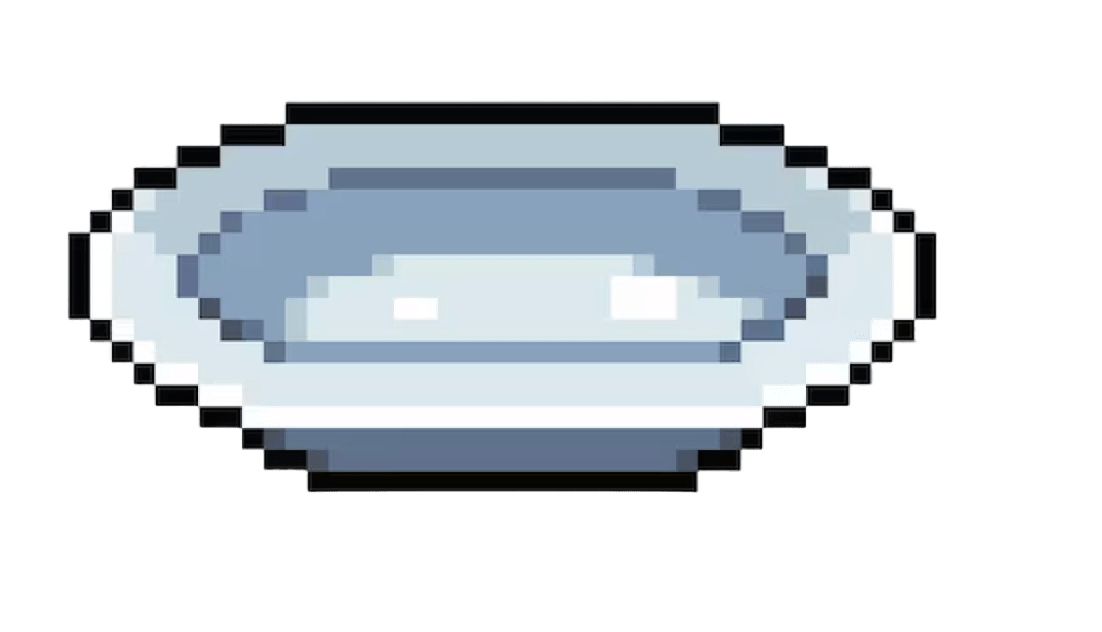
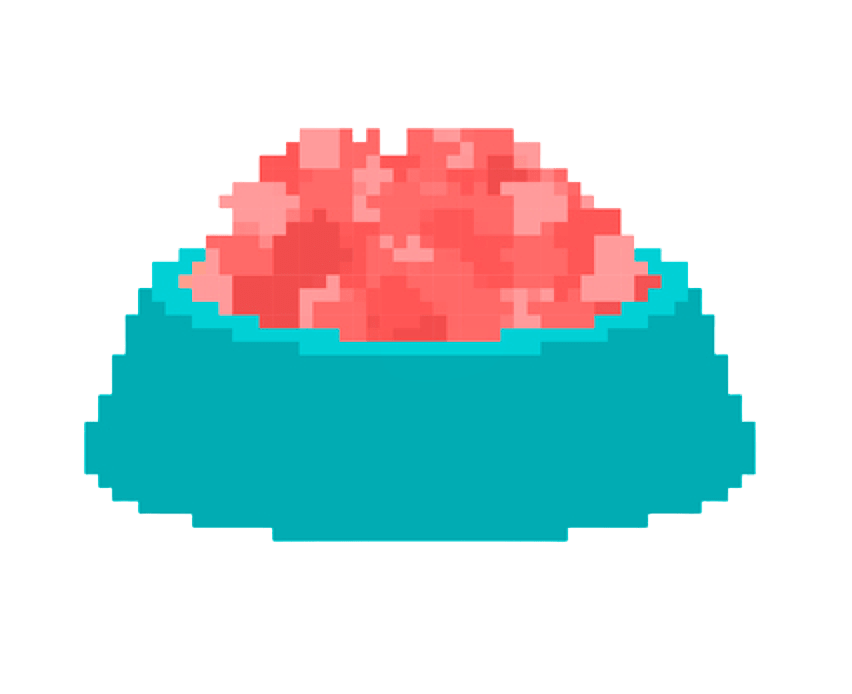
Efectos bola de estambre y plato

diff --git a/mapa.py b/mapa.py
@@ -1,5 +1,5 @@
 import random
-from config import FILAS, COLS, CELDA_MURO, CELDA_VACIA, CELDA_RATON, BASE, DEPOSITO, CELDA_CHARCO, CELDA_PLATO, CELDA_BOLA
+from config import FILAS, COLS, CELDA_MURO, CELDA_VACIA, CELDA_RATON, BASE, DEPOSITO, CELDA_CHARCO
 
 def generar_mapa(muros_fijos=None, num_ratones=10, num_obstaculos=20, num_charcos=6, num_platos = 3, num_bolas = 4):
     """Genera un mapa con muros, obstáculos aleatorios y ratones aleatorios en celdas libres."""
@@ -40,17 +40,7 @@ def generar_mapa(muros_fijos=None, num_ratones=10, num_obstaculos=20, num_charco
     charcos = random.sample(libres, min(num_charcos, len(libres)))
     for f, c in charcos:
         mapa[f][c] = CELDA_CHARCO
+    
 
-    libres = [(f, c) for f in range(FILAS) for c in range(COLS)
-              if mapa[f][c] == CELDA_VACIA and (f, c) not in [BASE, DEPOSITO]]
-    platos = random.sample(libres, min(num_platos, len(libres)))
-    for f, c in platos:
-        mapa[f][c] = CELDA_PLATO
-
-    libres = [(f, c) for f in range(FILAS) for c in range(COLS)
-              if mapa[f][c] == CELDA_VACIA and (f, c) not in [BASE, DEPOSITO]]
-    bolas = random.sample(libres, min(num_bolas, len(libres)))
-    for f, c in bolas:
-        mapa[f][c] = CELDA_BOLA
 
     return mapa

diff --git a/escenario.py b/escenario.py
@@ -28,6 +28,10 @@ class Escenario:
         bola_size = int(TAM * 0.8)
         self.bola_img = pygame.transform.smoothscale(bola_png, (bola_size, bola_size))
 
+        cama_png = pygame.image.load("personajes/cama.png").convert_alpha()
+        cama_size = int(TAM * 1.2)
+        self.cama_img = pygame.transform.smoothscale(cama_png, (cama_size, cama_size))
+
         self._deposito_imgs = self._cargar_sprites_deposito()
 
          # --- ÍTEMS TEMPORALES ---
@@ -96,7 +100,9 @@ class Escenario:
                 y = fila * TAM
 
                 if (fila, col) == self.base:
-                    pygame.draw.rect(pantalla, BASE_COLOR, (x, y, TAM, TAM))
+                    pygame.draw.rect(pantalla, VACIO, (x, y, TAM, TAM))
+                    iw, ih = self.cama_img.get_size()
+                    pantalla.blit(self.cama_img, (x + (TAM - iw)//2, y + (TAM - ih)//2))
                     # Dibuja ratones contabilizados en BASE
                     #self._dibujar_stack(pantalla, x, y, self.entregados_base)
 

diff --git a/main.py b/main.py
@@ -32,14 +32,13 @@ while corriendo:
     escenario.entregados_deposito = ia.contador_deposito
     escenario.entregados_base = ia.recolectadas
 
-    escenario.actualizar_items()
-
     for evento in pygame.event.get():
         if evento.type == pygame.QUIT:
             corriendo = False
     
     # --- Dibujo ---
     pantalla.fill((0, 0, 0))
+    escenario.actualizar_items()
     escenario.dibujar(pantalla)
     #jugador.dibujar(pantalla)
     ia.dibujar(pantalla)

diff --git a/config.py b/config.py
@@ -10,8 +10,6 @@ CELDA_VACIA = 0
 CELDA_MURO = 1
 CELDA_RATON = 2
 CELDA_CHARCO  = 3
-CELDA_PLATO = 4
-CELDA_BOLA = 5
 
 # Colores de los objetos
 VACIO = (200, 200, 200)
